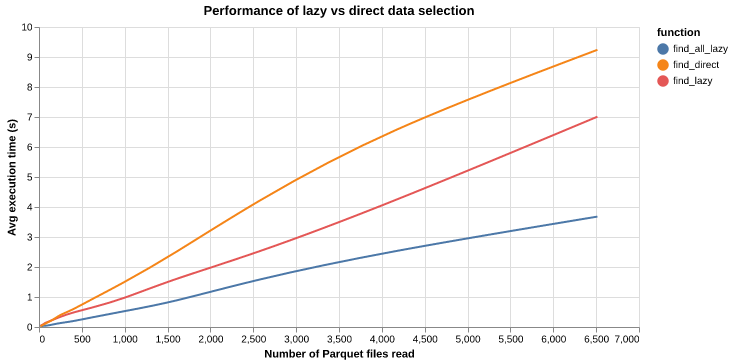
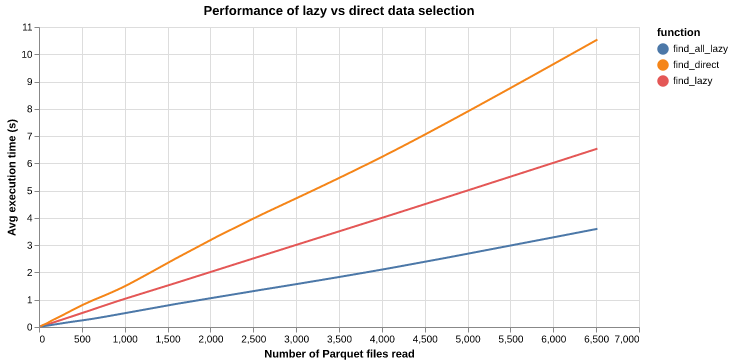
last commit before publishing

diff --git a/data/results/selection_direct_vs_lazy_final.html b/data/results/selection_direct_vs_lazy_final.html
@@ -21,7 +21,7 @@
   <div id="vis"></div>
   <script>
     (function(vegaEmbed) {
-      var spec = {"config": {"view": {"continuousWidth": 300, "continuousHeight": 300}}, "layer": [{"mark": {"type": "line", "interpolate": "basis"}, "encoding": {"color": {"field": "function", "type": "nominal"}, "x": {"field": "sampling_size", "title": "Number of Parquet files read", "type": "quantitative"}, "y": {"field": "avg_exec_time", "title": "Avg execution time (s)", "type": "quantitative"}}}, {"mark": {"type": "point"}, "encoding": {"opacity": {"value": 0}, "x": {"field": "sampling_size", "type": "quantitative"}}, "name": "view_1"}, {"mark": {"type": "point"}, "encoding": {"color": {"field": "function", "type": "nominal"}, "opacity": {"condition": [{"param": "param_1", "value": 1, "empty": false}], "value": 0}, "x": {"field": "sampling_size", "title": "Number of Parquet files read", "type": "quantitative"}, "y": {"field": "avg_exec_time", "title": "Avg execution time (s)", "type": "quantitative"}}}, {"mark": {"type": "rule", "color": "gray"}, "encoding": {"x": {"field": "sampling_size", "type": "quantitative"}}, "transform": [{"filter": {"param": "param_1", "empty": false}}]}, {"mark": {"type": "text", "align": "left", "dx": 5, "dy": -10}, "encoding": {"color": {"field": "function", "type": "nominal"}, "text": {"condition": {"param": "param_1", "empty": false, "field": "avg_exec_time", "type": "quantitative"}, "value": " "}, "x": {"field": "sampling_size", "title": "Number of Parquet files read", "type": "quantitative"}, "y": {"field": "avg_exec_time", "title": "Avg execution time (s)", "type": "quantitative"}}}], "data": {"name": "data-dff3ed3b3bd552626b7aa0d7ed4f5f4f"}, "height": 300, "params": [{"name": "param_1", "select": {"type": "point", "fields": ["sampling_size"], "nearest": true, "on": "pointerover"}, "views": ["view_1"]}], "title": "Performance of lazy vs direct data selection", "width": 600, "$schema": "https://vega.github.io/schema/vega-lite/v5.20.1.json", "datasets": {"data-dff3ed3b3bd552626b7aa0d7ed4f5f4f": [{"function": "find_lazy", "sampling_size": 17, "avg_exec_time": 0.05}, {"function": "find_all_lazy", "sampling_size": 17, "avg_exec_time": 0.03}, {"function": "find_direct", "sampling_size": 17, "avg_exec_time": 0.02}, {"function": "find_lazy", "sampling_size": 34, "avg_exec_time": 0.06}, {"function": "find_all_lazy", "sampling_size": 34, "avg_exec_time": 0.03}, {"function": "find_direct", "sampling_size": 34, "avg_exec_time": 0.05}, {"function": "find_lazy", "sampling_size": 51, "avg_exec_time": 0.09}, {"function": "find_all_lazy", "sampling_size": 51, "avg_exec_time": 0.04}, {"function": "find_direct", "sampling_size": 51, "avg_exec_time": 0.08}, {"function": "find_lazy", "sampling_size": 68, "avg_exec_time": 0.13}, {"function": "find_all_lazy", "sampling_size": 68, "avg_exec_time": 0.04}, {"function": "find_direct", "sampling_size": 68, "avg_exec_time": 0.1}, {"function": "find_lazy", "sampling_size": 103, "avg_exec_time": 0.17}, {"function": "find_all_lazy", "sampling_size": 103, "avg_exec_time": 0.05}, {"function": "find_direct", "sampling_size": 103, "avg_exec_time": 0.16}, {"function": "find_lazy", "sampling_size": 154, "avg_exec_time": 0.23}, {"function": "find_all_lazy", "sampling_size": 154, "avg_exec_time": 0.08}, {"function": "find_direct", "sampling_size": 154, "avg_exec_time": 0.22}, {"function": "find_lazy", "sampling_size": 239, "avg_exec_time": 0.33}, {"function": "find_all_lazy", "sampling_size": 239, "avg_exec_time": 0.13}, {"function": "find_direct", "sampling_size": 239, "avg_exec_time": 0.4}, {"function": "find_lazy", "sampling_size": 376, "avg_exec_time": 0.47}, {"function": "find_all_lazy", "sampling_size": 376, "avg_exec_time": 0.18}, {"function": "find_direct", "sampling_size": 376, "avg_exec_time": 0.55}, {"function": "find_lazy", "sampling_size": 599, "avg_exec_time": 0.63}, {"function": "find_all_lazy", "sampling_size": 599, "avg_exec_time": 0.31}, {"function": "find_direct", "sampling_size": 599, "avg_exec_time": 0.9}, {"function": "find_lazy", "sampling_size": 958, "avg_exec_time": 0.91}, {"function": "find_all_lazy", "sampling_size": 958, "avg_exec_time": 0.51}, {"function": "find_direct", "sampling_size": 958, "avg_exec_time": 1.43}, {"function": "find_lazy", "sampling_size": 1539, "avg_exec_time": 1.57}, {"function": "find_all_lazy", "sampling_size": 1539, "avg_exec_time": 0.81}, {"function": "find_direct", "sampling_size": 1539, "avg_exec_time": 2.37}, {"function": "find_lazy", "sampling_size": 2480, "avg_exec_time": 2.4}, {"function": "find_all_lazy", "sampling_size": 2480, "avg_exec_time": 1.55}, {"function": "find_direct", "sampling_size": 2480, "avg_exec_time": 4.1}, {"function": "find_lazy", "sampling_size": 4001, "avg_exec_time": 4.01}, {"function": "find_all_lazy", "sampling_size": 4001, "avg_exec_time": 2.49}, {"function": "find_direct", "sampling_size": 4001, "avg_exec_time": 6.52}, {"function": "find_lazy", "sampling_size": 6515, "avg_exec_time": 7.01}, {"function": "find_all_lazy", "sampling_size": 6515, "avg_exec_time": 3.68}, {"function": "find_direct", "sampling_size": 6515, "avg_exec_time": 9.24}]}};
+      var spec = {"config": {"view": {"continuousWidth": 300, "continuousHeight": 300}}, "layer": [{"mark": {"type": "line", "interpolate": "basis"}, "encoding": {"color": {"field": "function", "type": "nominal"}, "x": {"field": "sampling_size", "title": "Number of Parquet files read", "type": "quantitative"}, "y": {"field": "avg_exec_time", "title": "Avg execution time (s)", "type": "quantitative"}}}, {"mark": {"type": "point"}, "encoding": {"opacity": {"value": 0}, "x": {"field": "sampling_size", "type": "quantitative"}}, "name": "view_1"}, {"mark": {"type": "point"}, "encoding": {"color": {"field": "function", "type": "nominal"}, "opacity": {"condition": [{"param": "param_1", "value": 1, "empty": false}], "value": 0}, "x": {"field": "sampling_size", "title": "Number of Parquet files read", "type": "quantitative"}, "y": {"field": "avg_exec_time", "title": "Avg execution time (s)", "type": "quantitative"}}}, {"mark": {"type": "rule", "color": "gray"}, "encoding": {"x": {"field": "sampling_size", "type": "quantitative"}}, "transform": [{"filter": {"param": "param_1", "empty": false}}]}, {"mark": {"type": "text", "align": "left", "dx": 5, "dy": -10}, "encoding": {"color": {"field": "function", "type": "nominal"}, "text": {"condition": {"param": "param_1", "empty": false, "field": "avg_exec_time", "type": "quantitative"}, "value": " "}, "x": {"field": "sampling_size", "title": "Number of Parquet files read", "type": "quantitative"}, "y": {"field": "avg_exec_time", "title": "Avg execution time (s)", "type": "quantitative"}}}], "data": {"name": "data-67b99add5ac444d742f09ae02d1f8cb5"}, "height": 300, "params": [{"name": "param_1", "select": {"type": "point", "fields": ["sampling_size"], "nearest": true, "on": "pointerover"}, "views": ["view_1"]}], "title": "Performance of lazy vs direct data selection", "width": 600, "$schema": "https://vega.github.io/schema/vega-lite/v5.20.1.json", "datasets": {"data-67b99add5ac444d742f09ae02d1f8cb5": [{"function": "find_lazy", "sampling_size": 17, "avg_exec_time": 0.02}, {"function": "find_all_lazy", "sampling_size": 17, "avg_exec_time": 0.02}, {"function": "find_direct", "sampling_size": 17, "avg_exec_time": 0.03}, {"function": "find_lazy", "sampling_size": 34, "avg_exec_time": 0.03}, {"function": "find_all_lazy", "sampling_size": 34, "avg_exec_time": 0.03}, {"function": "find_direct", "sampling_size": 34, "avg_exec_time": 0.05}, {"function": "find_lazy", "sampling_size": 51, "avg_exec_time": 0.05}, {"function": "find_all_lazy", "sampling_size": 51, "avg_exec_time": 0.03}, {"function": "find_direct", "sampling_size": 51, "avg_exec_time": 0.08}, {"function": "find_lazy", "sampling_size": 68, "avg_exec_time": 0.07}, {"function": "find_all_lazy", "sampling_size": 68, "avg_exec_time": 0.04}, {"function": "find_direct", "sampling_size": 68, "avg_exec_time": 0.1}, {"function": "find_lazy", "sampling_size": 103, "avg_exec_time": 0.1}, {"function": "find_all_lazy", "sampling_size": 103, "avg_exec_time": 0.05}, {"function": "find_direct", "sampling_size": 103, "avg_exec_time": 0.15}, {"function": "find_lazy", "sampling_size": 154, "avg_exec_time": 0.15}, {"function": "find_all_lazy", "sampling_size": 154, "avg_exec_time": 0.08}, {"function": "find_direct", "sampling_size": 154, "avg_exec_time": 0.25}, {"function": "find_lazy", "sampling_size": 239, "avg_exec_time": 0.24}, {"function": "find_all_lazy", "sampling_size": 239, "avg_exec_time": 0.12}, {"function": "find_direct", "sampling_size": 239, "avg_exec_time": 0.37}, {"function": "find_lazy", "sampling_size": 376, "avg_exec_time": 0.38}, {"function": "find_all_lazy", "sampling_size": 376, "avg_exec_time": 0.19}, {"function": "find_direct", "sampling_size": 376, "avg_exec_time": 0.6}, {"function": "find_lazy", "sampling_size": 599, "avg_exec_time": 0.61}, {"function": "find_all_lazy", "sampling_size": 599, "avg_exec_time": 0.28}, {"function": "find_direct", "sampling_size": 599, "avg_exec_time": 0.96}, {"function": "find_lazy", "sampling_size": 958, "avg_exec_time": 1.0}, {"function": "find_all_lazy", "sampling_size": 958, "avg_exec_time": 0.48}, {"function": "find_direct", "sampling_size": 958, "avg_exec_time": 1.38}, {"function": "find_lazy", "sampling_size": 1539, "avg_exec_time": 1.55}, {"function": "find_all_lazy", "sampling_size": 1539, "avg_exec_time": 0.82}, {"function": "find_direct", "sampling_size": 1539, "avg_exec_time": 2.43}, {"function": "find_lazy", "sampling_size": 2480, "avg_exec_time": 2.5}, {"function": "find_all_lazy", "sampling_size": 2480, "avg_exec_time": 1.31}, {"function": "find_direct", "sampling_size": 2480, "avg_exec_time": 4.0}, {"function": "find_lazy", "sampling_size": 4001, "avg_exec_time": 3.99}, {"function": "find_all_lazy", "sampling_size": 4001, "avg_exec_time": 2.07}, {"function": "find_direct", "sampling_size": 4001, "avg_exec_time": 6.12}, {"function": "find_lazy", "sampling_size": 6515, "avg_exec_time": 6.54}, {"function": "find_all_lazy", "sampling_size": 6515, "avg_exec_time": 3.6}, {"function": "find_direct", "sampling_size": 6515, "avg_exec_time": 10.54}]}};
       var embedOpt = {"mode": "vega-lite"};
 
       function showError(el, error){

diff --git a/data/results/selection_direct_vs_lazy_initial.html b/data/results/selection_direct_vs_lazy_initial.html
@@ -21,7 +21,7 @@
   <div id="vis"></div>
   <script>
     (function(vegaEmbed) {
-      var spec = {"config": {"view": {"continuousWidth": 300, "continuousHeight": 300}}, "layer": [{"mark": {"type": "line", "interpolate": "basis"}, "encoding": {"color": {"field": "function", "type": "nominal"}, "x": {"field": "sampling_size", "title": "Number of Parquet files read", "type": "quantitative"}, "y": {"field": "avg_exec_time", "title": "Avg execution time (s)", "type": "quantitative"}}}, {"mark": {"type": "point"}, "encoding": {"opacity": {"value": 0}, "x": {"field": "sampling_size", "type": "quantitative"}}, "name": "view_2"}, {"mark": {"type": "point"}, "encoding": {"color": {"field": "function", "type": "nominal"}, "opacity": {"condition": [{"param": "param_2", "value": 1, "empty": false}], "value": 0}, "x": {"field": "sampling_size", "title": "Number of Parquet files read", "type": "quantitative"}, "y": {"field": "avg_exec_time", "title": "Avg execution time (s)", "type": "quantitative"}}}, {"mark": {"type": "rule", "color": "gray"}, "encoding": {"x": {"field": "sampling_size", "type": "quantitative"}}, "transform": [{"filter": {"param": "param_2", "empty": false}}]}, {"mark": {"type": "text", "align": "left", "dx": 5, "dy": -10}, "encoding": {"color": {"field": "function", "type": "nominal"}, "text": {"condition": {"param": "param_2", "empty": false, "field": "avg_exec_time", "type": "quantitative"}, "value": " "}, "x": {"field": "sampling_size", "title": "Number of Parquet files read", "type": "quantitative"}, "y": {"field": "avg_exec_time", "title": "Avg execution time (s)", "type": "quantitative"}}}], "data": {"name": "data-d1d6a79ae1de8f59038760d98b763ad5"}, "height": 300, "params": [{"name": "param_2", "select": {"type": "point", "fields": ["sampling_size"], "nearest": true, "on": "pointerover"}, "views": ["view_2"]}], "title": "Performance of naive lazy vs direct data selection", "width": 600, "$schema": "https://vega.github.io/schema/vega-lite/v5.20.1.json", "datasets": {"data-d1d6a79ae1de8f59038760d98b763ad5": [{"function": "find_lazy", "sampling_size": 17, "avg_exec_time": 0.05}, {"function": "find_direct", "sampling_size": 17, "avg_exec_time": 0.02}, {"function": "find_lazy", "sampling_size": 34, "avg_exec_time": 0.06}, {"function": "find_direct", "sampling_size": 34, "avg_exec_time": 0.05}, {"function": "find_lazy", "sampling_size": 51, "avg_exec_time": 0.09}, {"function": "find_direct", "sampling_size": 51, "avg_exec_time": 0.08}, {"function": "find_lazy", "sampling_size": 68, "avg_exec_time": 0.13}, {"function": "find_direct", "sampling_size": 68, "avg_exec_time": 0.1}, {"function": "find_lazy", "sampling_size": 103, "avg_exec_time": 0.17}, {"function": "find_direct", "sampling_size": 103, "avg_exec_time": 0.16}, {"function": "find_lazy", "sampling_size": 154, "avg_exec_time": 0.23}, {"function": "find_direct", "sampling_size": 154, "avg_exec_time": 0.22}, {"function": "find_lazy", "sampling_size": 239, "avg_exec_time": 0.33}, {"function": "find_direct", "sampling_size": 239, "avg_exec_time": 0.4}, {"function": "find_lazy", "sampling_size": 376, "avg_exec_time": 0.47}, {"function": "find_direct", "sampling_size": 376, "avg_exec_time": 0.55}, {"function": "find_lazy", "sampling_size": 599, "avg_exec_time": 0.63}, {"function": "find_direct", "sampling_size": 599, "avg_exec_time": 0.9}, {"function": "find_lazy", "sampling_size": 958, "avg_exec_time": 0.91}, {"function": "find_direct", "sampling_size": 958, "avg_exec_time": 1.43}, {"function": "find_lazy", "sampling_size": 1539, "avg_exec_time": 1.57}, {"function": "find_direct", "sampling_size": 1539, "avg_exec_time": 2.37}, {"function": "find_lazy", "sampling_size": 2480, "avg_exec_time": 2.4}, {"function": "find_direct", "sampling_size": 2480, "avg_exec_time": 4.1}, {"function": "find_lazy", "sampling_size": 4001, "avg_exec_time": 4.01}, {"function": "find_direct", "sampling_size": 4001, "avg_exec_time": 6.52}, {"function": "find_lazy", "sampling_size": 6515, "avg_exec_time": 7.01}, {"function": "find_direct", "sampling_size": 6515, "avg_exec_time": 9.24}]}};
+      var spec = {"config": {"view": {"continuousWidth": 300, "continuousHeight": 300}}, "layer": [{"mark": {"type": "line", "interpolate": "basis"}, "encoding": {"color": {"field": "function", "type": "nominal"}, "x": {"field": "sampling_size", "title": "Number of Parquet files read", "type": "quantitative"}, "y": {"field": "avg_exec_time", "title": "Avg execution time (s)", "type": "quantitative"}}}, {"mark": {"type": "point"}, "encoding": {"opacity": {"value": 0}, "x": {"field": "sampling_size", "type": "quantitative"}}, "name": "view_4"}, {"mark": {"type": "point"}, "encoding": {"color": {"field": "function", "type": "nominal"}, "opacity": {"condition": [{"param": "param_4", "value": 1, "empty": false}], "value": 0}, "x": {"field": "sampling_size", "title": "Number of Parquet files read", "type": "quantitative"}, "y": {"field": "avg_exec_time", "title": "Avg execution time (s)", "type": "quantitative"}}}, {"mark": {"type": "rule", "color": "gray"}, "encoding": {"x": {"field": "sampling_size", "type": "quantitative"}}, "transform": [{"filter": {"param": "param_4", "empty": false}}]}, {"mark": {"type": "text", "align": "left", "dx": 5, "dy": -10}, "encoding": {"color": {"field": "function", "type": "nominal"}, "text": {"condition": {"param": "param_4", "empty": false, "field": "avg_exec_time", "type": "quantitative"}, "value": " "}, "x": {"field": "sampling_size", "title": "Number of Parquet files read", "type": "quantitative"}, "y": {"field": "avg_exec_time", "title": "Avg execution time (s)", "type": "quantitative"}}}], "data": {"name": "data-4ff45afe77443aa49d9861445d7286a0"}, "height": 300, "params": [{"name": "param_4", "select": {"type": "point", "fields": ["sampling_size"], "nearest": true, "on": "pointerover"}, "views": ["view_4"]}], "title": "Performance of naive lazy vs direct data selection", "width": 600, "$schema": "https://vega.github.io/schema/vega-lite/v5.20.1.json", "datasets": {"data-4ff45afe77443aa49d9861445d7286a0": [{"function": "find_lazy", "sampling_size": 17, "avg_exec_time": 0.02}, {"function": "find_direct", "sampling_size": 17, "avg_exec_time": 0.03}, {"function": "find_lazy", "sampling_size": 34, "avg_exec_time": 0.03}, {"function": "find_direct", "sampling_size": 34, "avg_exec_time": 0.05}, {"function": "find_lazy", "sampling_size": 51, "avg_exec_time": 0.05}, {"function": "find_direct", "sampling_size": 51, "avg_exec_time": 0.08}, {"function": "find_lazy", "sampling_size": 68, "avg_exec_time": 0.07}, {"function": "find_direct", "sampling_size": 68, "avg_exec_time": 0.1}, {"function": "find_lazy", "sampling_size": 103, "avg_exec_time": 0.1}, {"function": "find_direct", "sampling_size": 103, "avg_exec_time": 0.15}, {"function": "find_lazy", "sampling_size": 154, "avg_exec_time": 0.15}, {"function": "find_direct", "sampling_size": 154, "avg_exec_time": 0.25}, {"function": "find_lazy", "sampling_size": 239, "avg_exec_time": 0.24}, {"function": "find_direct", "sampling_size": 239, "avg_exec_time": 0.37}, {"function": "find_lazy", "sampling_size": 376, "avg_exec_time": 0.38}, {"function": "find_direct", "sampling_size": 376, "avg_exec_time": 0.6}, {"function": "find_lazy", "sampling_size": 599, "avg_exec_time": 0.61}, {"function": "find_direct", "sampling_size": 599, "avg_exec_time": 0.96}, {"function": "find_lazy", "sampling_size": 958, "avg_exec_time": 1.0}, {"function": "find_direct", "sampling_size": 958, "avg_exec_time": 1.38}, {"function": "find_lazy", "sampling_size": 1539, "avg_exec_time": 1.55}, {"function": "find_direct", "sampling_size": 1539, "avg_exec_time": 2.43}, {"function": "find_lazy", "sampling_size": 2480, "avg_exec_time": 2.5}, {"function": "find_direct", "sampling_size": 2480, "avg_exec_time": 4.0}, {"function": "find_lazy", "sampling_size": 4001, "avg_exec_time": 3.99}, {"function": "find_direct", "sampling_size": 4001, "avg_exec_time": 6.12}, {"function": "find_lazy", "sampling_size": 6515, "avg_exec_time": 6.54}, {"function": "find_direct", "sampling_size": 6515, "avg_exec_time": 10.54}]}};
       var embedOpt = {"mode": "vega-lite"};
 
       function showError(el, error){

diff --git a/data/results/selection_direct_vs_lazy_final_zoom1.html b/data/results/selection_direct_vs_lazy_final_zoom1.html
@@ -1,0 +1,42 @@
+<!DOCTYPE html>
+<html>
+<head>
+  <meta charset="UTF-8">
+  <style>
+    #vis.vega-embed {
+      width: 100%;
+      display: flex;
+    }
+
+    #vis.vega-embed details,
+    #vis.vega-embed details summary {
+      position: relative;
+    }
+  </style>
+  <script type="text/javascript" src="https://cdn.jsdelivr.net/npm/vega@5"></script>
+  <script type="text/javascript" src="https://cdn.jsdelivr.net/npm/vega-lite@5.20.1"></script>
+  <script type="text/javascript" src="https://cdn.jsdelivr.net/npm/vega-embed@6"></script>
+</head>
+<body>
+  <div id="vis"></div>
+  <script>
+    (function(vegaEmbed) {
+      var spec = {"config": {"view": {"continuousWidth": 300, "continuousHeight": 300}}, "layer": [{"mark": {"type": "line", "interpolate": "basis"}, "encoding": {"color": {"field": "function", "type": "nominal"}, "x": {"field": "sampling_size", "title": "Number of Parquet files read", "type": "quantitative"}, "y": {"field": "avg_exec_time", "title": "Avg execution time (s)", "type": "quantitative"}}}, {"mark": {"type": "point"}, "encoding": {"opacity": {"value": 0}, "x": {"field": "sampling_size", "type": "quantitative"}}, "name": "view_2"}, {"mark": {"type": "point"}, "encoding": {"color": {"field": "function", "type": "nominal"}, "opacity": {"condition": [{"param": "param_2", "value": 1, "empty": false}], "value": 0}, "x": {"field": "sampling_size", "title": "Number of Parquet files read", "type": "quantitative"}, "y": {"field": "avg_exec_time", "title": "Avg execution time (s)", "type": "quantitative"}}}, {"mark": {"type": "rule", "color": "gray"}, "encoding": {"x": {"field": "sampling_size", "type": "quantitative"}}, "transform": [{"filter": {"param": "param_2", "empty": false}}]}, {"mark": {"type": "text", "align": "left", "dx": 5, "dy": -10}, "encoding": {"color": {"field": "function", "type": "nominal"}, "text": {"condition": {"param": "param_2", "empty": false, "field": "avg_exec_time", "type": "quantitative"}, "value": " "}, "x": {"field": "sampling_size", "title": "Number of Parquet files read", "type": "quantitative"}, "y": {"field": "avg_exec_time", "title": "Avg execution time (s)", "type": "quantitative"}}}], "data": {"name": "data-b1bbf3f322fc25d5bd9b01fe8fca0cdb"}, "height": 300, "params": [{"name": "param_2", "select": {"type": "point", "fields": ["sampling_size"], "nearest": true, "on": "pointerover"}, "views": ["view_2"]}], "title": "Performance of lazy vs direct data selection", "width": 600, "$schema": "https://vega.github.io/schema/vega-lite/v5.20.1.json", "datasets": {"data-b1bbf3f322fc25d5bd9b01fe8fca0cdb": [{"function": "find_lazy", "sampling_size": 17, "avg_exec_time": 0.02}, {"function": "find_all_lazy", "sampling_size": 17, "avg_exec_time": 0.02}, {"function": "find_direct", "sampling_size": 17, "avg_exec_time": 0.03}, {"function": "find_lazy", "sampling_size": 34, "avg_exec_time": 0.03}, {"function": "find_all_lazy", "sampling_size": 34, "avg_exec_time": 0.03}, {"function": "find_direct", "sampling_size": 34, "avg_exec_time": 0.05}, {"function": "find_lazy", "sampling_size": 51, "avg_exec_time": 0.05}, {"function": "find_all_lazy", "sampling_size": 51, "avg_exec_time": 0.03}, {"function": "find_direct", "sampling_size": 51, "avg_exec_time": 0.08}, {"function": "find_lazy", "sampling_size": 68, "avg_exec_time": 0.07}, {"function": "find_all_lazy", "sampling_size": 68, "avg_exec_time": 0.04}, {"function": "find_direct", "sampling_size": 68, "avg_exec_time": 0.1}, {"function": "find_lazy", "sampling_size": 103, "avg_exec_time": 0.1}, {"function": "find_all_lazy", "sampling_size": 103, "avg_exec_time": 0.05}, {"function": "find_direct", "sampling_size": 103, "avg_exec_time": 0.15}, {"function": "find_lazy", "sampling_size": 154, "avg_exec_time": 0.15}, {"function": "find_all_lazy", "sampling_size": 154, "avg_exec_time": 0.08}, {"function": "find_direct", "sampling_size": 154, "avg_exec_time": 0.25}, {"function": "find_lazy", "sampling_size": 239, "avg_exec_time": 0.24}, {"function": "find_all_lazy", "sampling_size": 239, "avg_exec_time": 0.12}, {"function": "find_direct", "sampling_size": 239, "avg_exec_time": 0.37}, {"function": "find_lazy", "sampling_size": 376, "avg_exec_time": 0.38}, {"function": "find_all_lazy", "sampling_size": 376, "avg_exec_time": 0.19}, {"function": "find_direct", "sampling_size": 376, "avg_exec_time": 0.6}, {"function": "find_lazy", "sampling_size": 599, "avg_exec_time": 0.61}, {"function": "find_all_lazy", "sampling_size": 599, "avg_exec_time": 0.28}, {"function": "find_direct", "sampling_size": 599, "avg_exec_time": 0.96}, {"function": "find_lazy", "sampling_size": 958, "avg_exec_time": 1.0}, {"function": "find_all_lazy", "sampling_size": 958, "avg_exec_time": 0.48}, {"function": "find_direct", "sampling_size": 958, "avg_exec_time": 1.38}, {"function": "find_lazy", "sampling_size": 1539, "avg_exec_time": 1.55}, {"function": "find_all_lazy", "sampling_size": 1539, "avg_exec_time": 0.82}, {"function": "find_direct", "sampling_size": 1539, "avg_exec_time": 2.43}, {"function": "find_lazy", "sampling_size": 2480, "avg_exec_time": 2.5}, {"function": "find_all_lazy", "sampling_size": 2480, "avg_exec_time": 1.31}, {"function": "find_direct", "sampling_size": 2480, "avg_exec_time": 4.0}]}};
+      var embedOpt = {"mode": "vega-lite"};
+
+      function showError(el, error){
+          el.innerHTML = ('<div style="color:red;">'
+                          + '<p>JavaScript Error: ' + error.message + '</p>'
+                          + "<p>This usually means there's a typo in your chart specification. "
+                          + "See the javascript console for the full traceback.</p>"
+                          + '</div>');
+          throw error;
+      }
+      const el = document.getElementById('vis');
+      vegaEmbed("#vis", spec, embedOpt)
+        .catch(error => showError(el, error));
+    })(vegaEmbed);
+
+  </script>
+</body>
+</html>

diff --git a/data/results/selection_direct_vs_lazy_final_zoom2.html b/data/results/selection_direct_vs_lazy_final_zoom2.html
@@ -1,0 +1,42 @@
+<!DOCTYPE html>
+<html>
+<head>
+  <meta charset="UTF-8">
+  <style>
+    #vis.vega-embed {
+      width: 100%;
+      display: flex;
+    }
+
+    #vis.vega-embed details,
+    #vis.vega-embed details summary {
+      position: relative;
+    }
+  </style>
+  <script type="text/javascript" src="https://cdn.jsdelivr.net/npm/vega@5"></script>
+  <script type="text/javascript" src="https://cdn.jsdelivr.net/npm/vega-lite@5.20.1"></script>
+  <script type="text/javascript" src="https://cdn.jsdelivr.net/npm/vega-embed@6"></script>
+</head>
+<body>
+  <div id="vis"></div>
+  <script>
+    (function(vegaEmbed) {
+      var spec = {"config": {"view": {"continuousWidth": 300, "continuousHeight": 300}}, "layer": [{"mark": {"type": "line", "interpolate": "basis"}, "encoding": {"color": {"field": "function", "type": "nominal"}, "x": {"field": "sampling_size", "title": "Number of Parquet files read", "type": "quantitative"}, "y": {"field": "avg_exec_time", "title": "Avg execution time (s)", "type": "quantitative"}}}, {"mark": {"type": "point"}, "encoding": {"opacity": {"value": 0}, "x": {"field": "sampling_size", "type": "quantitative"}}, "name": "view_3"}, {"mark": {"type": "point"}, "encoding": {"color": {"field": "function", "type": "nominal"}, "opacity": {"condition": [{"param": "param_3", "value": 1, "empty": false}], "value": 0}, "x": {"field": "sampling_size", "title": "Number of Parquet files read", "type": "quantitative"}, "y": {"field": "avg_exec_time", "title": "Avg execution time (s)", "type": "quantitative"}}}, {"mark": {"type": "rule", "color": "gray"}, "encoding": {"x": {"field": "sampling_size", "type": "quantitative"}}, "transform": [{"filter": {"param": "param_3", "empty": false}}]}, {"mark": {"type": "text", "align": "left", "dx": 5, "dy": -10}, "encoding": {"color": {"field": "function", "type": "nominal"}, "text": {"condition": {"param": "param_3", "empty": false, "field": "avg_exec_time", "type": "quantitative"}, "value": " "}, "x": {"field": "sampling_size", "title": "Number of Parquet files read", "type": "quantitative"}, "y": {"field": "avg_exec_time", "title": "Avg execution time (s)", "type": "quantitative"}}}], "data": {"name": "data-d346eaa7fcabea300a1cf6cd6671c32c"}, "height": 300, "params": [{"name": "param_3", "select": {"type": "point", "fields": ["sampling_size"], "nearest": true, "on": "pointerover"}, "views": ["view_3"]}], "title": "Performance of lazy vs direct data selection", "width": 600, "$schema": "https://vega.github.io/schema/vega-lite/v5.20.1.json", "datasets": {"data-d346eaa7fcabea300a1cf6cd6671c32c": [{"function": "find_lazy", "sampling_size": 17, "avg_exec_time": 0.02}, {"function": "find_all_lazy", "sampling_size": 17, "avg_exec_time": 0.02}, {"function": "find_direct", "sampling_size": 17, "avg_exec_time": 0.03}, {"function": "find_lazy", "sampling_size": 34, "avg_exec_time": 0.03}, {"function": "find_all_lazy", "sampling_size": 34, "avg_exec_time": 0.03}, {"function": "find_direct", "sampling_size": 34, "avg_exec_time": 0.05}, {"function": "find_lazy", "sampling_size": 51, "avg_exec_time": 0.05}, {"function": "find_all_lazy", "sampling_size": 51, "avg_exec_time": 0.03}, {"function": "find_direct", "sampling_size": 51, "avg_exec_time": 0.08}, {"function": "find_lazy", "sampling_size": 68, "avg_exec_time": 0.07}, {"function": "find_all_lazy", "sampling_size": 68, "avg_exec_time": 0.04}, {"function": "find_direct", "sampling_size": 68, "avg_exec_time": 0.1}, {"function": "find_lazy", "sampling_size": 103, "avg_exec_time": 0.1}, {"function": "find_all_lazy", "sampling_size": 103, "avg_exec_time": 0.05}, {"function": "find_direct", "sampling_size": 103, "avg_exec_time": 0.15}, {"function": "find_lazy", "sampling_size": 154, "avg_exec_time": 0.15}, {"function": "find_all_lazy", "sampling_size": 154, "avg_exec_time": 0.08}, {"function": "find_direct", "sampling_size": 154, "avg_exec_time": 0.25}, {"function": "find_lazy", "sampling_size": 239, "avg_exec_time": 0.24}, {"function": "find_all_lazy", "sampling_size": 239, "avg_exec_time": 0.12}, {"function": "find_direct", "sampling_size": 239, "avg_exec_time": 0.37}, {"function": "find_lazy", "sampling_size": 376, "avg_exec_time": 0.38}, {"function": "find_all_lazy", "sampling_size": 376, "avg_exec_time": 0.19}, {"function": "find_direct", "sampling_size": 376, "avg_exec_time": 0.6}]}};
+      var embedOpt = {"mode": "vega-lite"};
+
+      function showError(el, error){
+          el.innerHTML = ('<div style="color:red;">'
+                          + '<p>JavaScript Error: ' + error.message + '</p>'
+                          + "<p>This usually means there's a typo in your chart specification. "
+                          + "See the javascript console for the full traceback.</p>"
+                          + '</div>');
+          throw error;
+      }
+      const el = document.getElementById('vis');
+      vegaEmbed("#vis", spec, embedOpt)
+        .catch(error => showError(el, error));
+    })(vegaEmbed);
+
+  </script>
+</body>
+</html>

diff --git a/data/results/selection_direct_vs_lazy_initial_zoom1.html b/data/results/selection_direct_vs_lazy_initial_zoom1.html
@@ -1,0 +1,42 @@
+<!DOCTYPE html>
+<html>
+<head>
+  <meta charset="UTF-8">
+  <style>
+    #vis.vega-embed {
+      width: 100%;
+      display: flex;
+    }
+
+    #vis.vega-embed details,
+    #vis.vega-embed details summary {
+      position: relative;
+    }
+  </style>
+  <script type="text/javascript" src="https://cdn.jsdelivr.net/npm/vega@5"></script>
+  <script type="text/javascript" src="https://cdn.jsdelivr.net/npm/vega-lite@5.20.1"></script>
+  <script type="text/javascript" src="https://cdn.jsdelivr.net/npm/vega-embed@6"></script>
+</head>
+<body>
+  <div id="vis"></div>
+  <script>
+    (function(vegaEmbed) {
+      var spec = {"config": {"view": {"continuousWidth": 300, "continuousHeight": 300}}, "layer": [{"mark": {"type": "line", "interpolate": "basis"}, "encoding": {"color": {"field": "function", "type": "nominal"}, "x": {"field": "sampling_size", "title": "Number of Parquet files read", "type": "quantitative"}, "y": {"field": "avg_exec_time", "title": "Avg execution time (s)", "type": "quantitative"}}}, {"mark": {"type": "point"}, "encoding": {"opacity": {"value": 0}, "x": {"field": "sampling_size", "type": "quantitative"}}, "name": "view_5"}, {"mark": {"type": "point"}, "encoding": {"color": {"field": "function", "type": "nominal"}, "opacity": {"condition": [{"param": "param_5", "value": 1, "empty": false}], "value": 0}, "x": {"field": "sampling_size", "title": "Number of Parquet files read", "type": "quantitative"}, "y": {"field": "avg_exec_time", "title": "Avg execution time (s)", "type": "quantitative"}}}, {"mark": {"type": "rule", "color": "gray"}, "encoding": {"x": {"field": "sampling_size", "type": "quantitative"}}, "transform": [{"filter": {"param": "param_5", "empty": false}}]}, {"mark": {"type": "text", "align": "left", "dx": 5, "dy": -10}, "encoding": {"color": {"field": "function", "type": "nominal"}, "text": {"condition": {"param": "param_5", "empty": false, "field": "avg_exec_time", "type": "quantitative"}, "value": " "}, "x": {"field": "sampling_size", "title": "Number of Parquet files read", "type": "quantitative"}, "y": {"field": "avg_exec_time", "title": "Avg execution time (s)", "type": "quantitative"}}}], "data": {"name": "data-622c97ee6168fdbb6c5f69ed3f9f094f"}, "height": 300, "params": [{"name": "param_5", "select": {"type": "point", "fields": ["sampling_size"], "nearest": true, "on": "pointerover"}, "views": ["view_5"]}], "title": "Performance of naive lazy vs direct data selection", "width": 600, "$schema": "https://vega.github.io/schema/vega-lite/v5.20.1.json", "datasets": {"data-622c97ee6168fdbb6c5f69ed3f9f094f": [{"function": "find_lazy", "sampling_size": 17, "avg_exec_time": 0.02}, {"function": "find_direct", "sampling_size": 17, "avg_exec_time": 0.03}, {"function": "find_lazy", "sampling_size": 34, "avg_exec_time": 0.03}, {"function": "find_direct", "sampling_size": 34, "avg_exec_time": 0.05}, {"function": "find_lazy", "sampling_size": 51, "avg_exec_time": 0.05}, {"function": "find_direct", "sampling_size": 51, "avg_exec_time": 0.08}, {"function": "find_lazy", "sampling_size": 68, "avg_exec_time": 0.07}, {"function": "find_direct", "sampling_size": 68, "avg_exec_time": 0.1}, {"function": "find_lazy", "sampling_size": 103, "avg_exec_time": 0.1}, {"function": "find_direct", "sampling_size": 103, "avg_exec_time": 0.15}, {"function": "find_lazy", "sampling_size": 154, "avg_exec_time": 0.15}, {"function": "find_direct", "sampling_size": 154, "avg_exec_time": 0.25}, {"function": "find_lazy", "sampling_size": 239, "avg_exec_time": 0.24}, {"function": "find_direct", "sampling_size": 239, "avg_exec_time": 0.37}, {"function": "find_lazy", "sampling_size": 376, "avg_exec_time": 0.38}, {"function": "find_direct", "sampling_size": 376, "avg_exec_time": 0.6}, {"function": "find_lazy", "sampling_size": 599, "avg_exec_time": 0.61}, {"function": "find_direct", "sampling_size": 599, "avg_exec_time": 0.96}, {"function": "find_lazy", "sampling_size": 958, "avg_exec_time": 1.0}, {"function": "find_direct", "sampling_size": 958, "avg_exec_time": 1.38}, {"function": "find_lazy", "sampling_size": 1539, "avg_exec_time": 1.55}, {"function": "find_direct", "sampling_size": 1539, "avg_exec_time": 2.43}, {"function": "find_lazy", "sampling_size": 2480, "avg_exec_time": 2.5}, {"function": "find_direct", "sampling_size": 2480, "avg_exec_time": 4.0}]}};
+      var embedOpt = {"mode": "vega-lite"};
+
+      function showError(el, error){
+          el.innerHTML = ('<div style="color:red;">'
+                          + '<p>JavaScript Error: ' + error.message + '</p>'
+                          + "<p>This usually means there's a typo in your chart specification. "
+                          + "See the javascript console for the full traceback.</p>"
+                          + '</div>');
+          throw error;
+      }
+      const el = document.getElementById('vis');
+      vegaEmbed("#vis", spec, embedOpt)
+        .catch(error => showError(el, error));
+    })(vegaEmbed);
+
+  </script>
+</body>
+</html>

diff --git a/data/results/selection_direct_vs_lazy_initial_zoom2.html b/data/results/selection_direct_vs_lazy_initial_zoom2.html
@@ -1,0 +1,42 @@
+<!DOCTYPE html>
+<html>
+<head>
+  <meta charset="UTF-8">
+  <style>
+    #vis.vega-embed {
+      width: 100%;
+      display: flex;
+    }
+
+    #vis.vega-embed details,
+    #vis.vega-embed details summary {
+      position: relative;
+    }
+  </style>
+  <script type="text/javascript" src="https://cdn.jsdelivr.net/npm/vega@5"></script>
+  <script type="text/javascript" src="https://cdn.jsdelivr.net/npm/vega-lite@5.20.1"></script>
+  <script type="text/javascript" src="https://cdn.jsdelivr.net/npm/vega-embed@6"></script>
+</head>
+<body>
+  <div id="vis"></div>
+  <script>
+    (function(vegaEmbed) {
+      var spec = {"config": {"view": {"continuousWidth": 300, "continuousHeight": 300}}, "layer": [{"mark": {"type": "line", "interpolate": "basis"}, "encoding": {"color": {"field": "function", "type": "nominal"}, "x": {"field": "sampling_size", "title": "Number of Parquet files read", "type": "quantitative"}, "y": {"field": "avg_exec_time", "title": "Avg execution time (s)", "type": "quantitative"}}}, {"mark": {"type": "point"}, "encoding": {"opacity": {"value": 0}, "x": {"field": "sampling_size", "type": "quantitative"}}, "name": "view_6"}, {"mark": {"type": "point"}, "encoding": {"color": {"field": "function", "type": "nominal"}, "opacity": {"condition": [{"param": "param_6", "value": 1, "empty": false}], "value": 0}, "x": {"field": "sampling_size", "title": "Number of Parquet files read", "type": "quantitative"}, "y": {"field": "avg_exec_time", "title": "Avg execution time (s)", "type": "quantitative"}}}, {"mark": {"type": "rule", "color": "gray"}, "encoding": {"x": {"field": "sampling_size", "type": "quantitative"}}, "transform": [{"filter": {"param": "param_6", "empty": false}}]}, {"mark": {"type": "text", "align": "left", "dx": 5, "dy": -10}, "encoding": {"color": {"field": "function", "type": "nominal"}, "text": {"condition": {"param": "param_6", "empty": false, "field": "avg_exec_time", "type": "quantitative"}, "value": " "}, "x": {"field": "sampling_size", "title": "Number of Parquet files read", "type": "quantitative"}, "y": {"field": "avg_exec_time", "title": "Avg execution time (s)", "type": "quantitative"}}}], "data": {"name": "data-36237b470980fa8d99e214d816b35b3d"}, "height": 300, "params": [{"name": "param_6", "select": {"type": "point", "fields": ["sampling_size"], "nearest": true, "on": "pointerover"}, "views": ["view_6"]}], "title": "Performance of naive lazy vs direct data selection", "width": 600, "$schema": "https://vega.github.io/schema/vega-lite/v5.20.1.json", "datasets": {"data-36237b470980fa8d99e214d816b35b3d": [{"function": "find_lazy", "sampling_size": 17, "avg_exec_time": 0.02}, {"function": "find_direct", "sampling_size": 17, "avg_exec_time": 0.03}, {"function": "find_lazy", "sampling_size": 34, "avg_exec_time": 0.03}, {"function": "find_direct", "sampling_size": 34, "avg_exec_time": 0.05}, {"function": "find_lazy", "sampling_size": 51, "avg_exec_time": 0.05}, {"function": "find_direct", "sampling_size": 51, "avg_exec_time": 0.08}, {"function": "find_lazy", "sampling_size": 68, "avg_exec_time": 0.07}, {"function": "find_direct", "sampling_size": 68, "avg_exec_time": 0.1}, {"function": "find_lazy", "sampling_size": 103, "avg_exec_time": 0.1}, {"function": "find_direct", "sampling_size": 103, "avg_exec_time": 0.15}, {"function": "find_lazy", "sampling_size": 154, "avg_exec_time": 0.15}, {"function": "find_direct", "sampling_size": 154, "avg_exec_time": 0.25}, {"function": "find_lazy", "sampling_size": 239, "avg_exec_time": 0.24}, {"function": "find_direct", "sampling_size": 239, "avg_exec_time": 0.37}, {"function": "find_lazy", "sampling_size": 376, "avg_exec_time": 0.38}, {"function": "find_direct", "sampling_size": 376, "avg_exec_time": 0.6}]}};
+      var embedOpt = {"mode": "vega-lite"};
+
+      function showError(el, error){
+          el.innerHTML = ('<div style="color:red;">'
+                          + '<p>JavaScript Error: ' + error.message + '</p>'
+                          + "<p>This usually means there's a typo in your chart specification. "
+                          + "See the javascript console for the full traceback.</p>"
+                          + '</div>');
+          throw error;
+      }
+      const el = document.getElementById('vis');
+      vegaEmbed("#vis", spec, embedOpt)
+        .catch(error => showError(el, error));
+    })(vegaEmbed);
+
+  </script>
+</body>
+</html>

diff --git a/laggyness/direct_vs_lazy.py b/laggyness/direct_vs_lazy.py
@@ -487,13 +487,31 @@ def test_find_data():
     res_name = "selection_direct_vs_lazy"
     res_df = pl.DataFrame(res)
     res_df.write_csv(result_path / f"{res_name}.csv")
+    res_df_zoom1 = res_df.filter(pl.col("sampling_size") < 3000)
+    res_df_zoom2 = res_df.filter(pl.col("sampling_size") < 500)
     my_plots = {
         "final":{
             "df":res_df,
             "title":"",
         },
+        "final_zoom1":{
+            "df":res_df_zoom1,
+            "title":"",
+        },
+        "final_zoom2":{
+            "df":res_df_zoom2,
+            "title":"",
+        },
         "initial":{
             "df":res_df.filter(pl.col("function").is_in(["find_lazy","find_direct"])),
+            "title":" naive",
+        },
+        "initial_zoom1":{
+            "df":res_df_zoom1.filter(pl.col("function").is_in(["find_lazy","find_direct"])),
+            "title":" naive",
+        },
+        "initial_zoom2":{
+            "df":res_df_zoom2.filter(pl.col("function").is_in(["find_lazy","find_direct"])),
             "title":" naive",
         },
     }
@@ -501,6 +519,7 @@ def test_find_data():
         res_plot = plot_results(source=my_plots[one_plot]["df"], title=f"Performance of{my_plots[one_plot]['title']} lazy vs direct data selection")
         res_plot.save(result_path / f"{res_name}_{one_plot}.png")
         res_plot.save(result_path / f"{res_name}_{one_plot}.html")
+        res_plot.save(result_path / f"{res_name}_{one_plot}.json")
 
     # res_plot = plot_results(source=res_df, title="Performance of lazy vs direct data selection")
     # res_plot.save(result_path / f"{res_name}_final.png")
@@ -595,8 +614,10 @@ def test_collect_data():
         res_plot = plot_results(source=my_plots[one_plot]["df"], title=f"Performance of{my_plots[one_plot]['title']} lazy vs direct data collection")
         res_plot.save(result_path / f"{res_name}_{one_plot}.png")
         res_plot.save(result_path / f"{res_name}_{one_plot}.html")
+        res_plot.save(result_path / f"{res_name}_{one_plot}.json")
 
 
 
+# generate the data
 test_find_data()
-# test_collect_data()
+test_collect_data()
